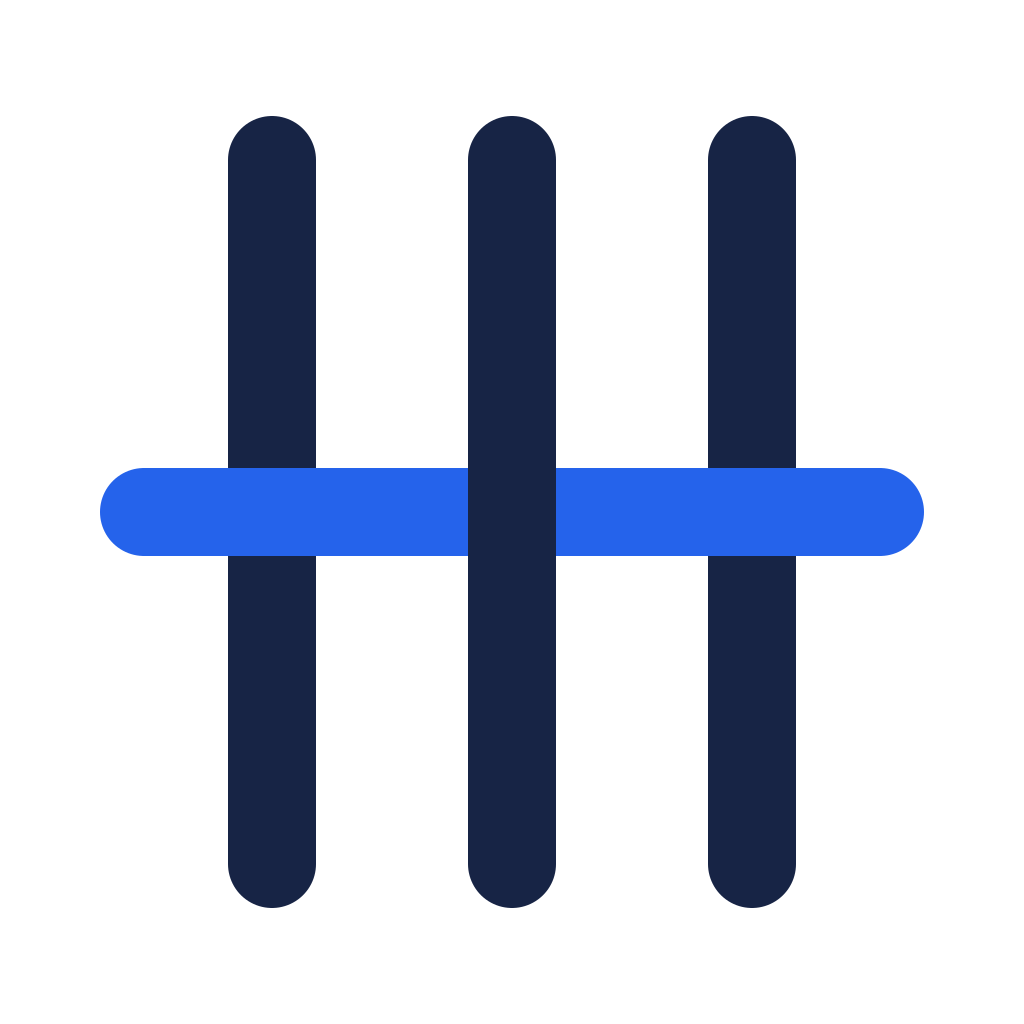
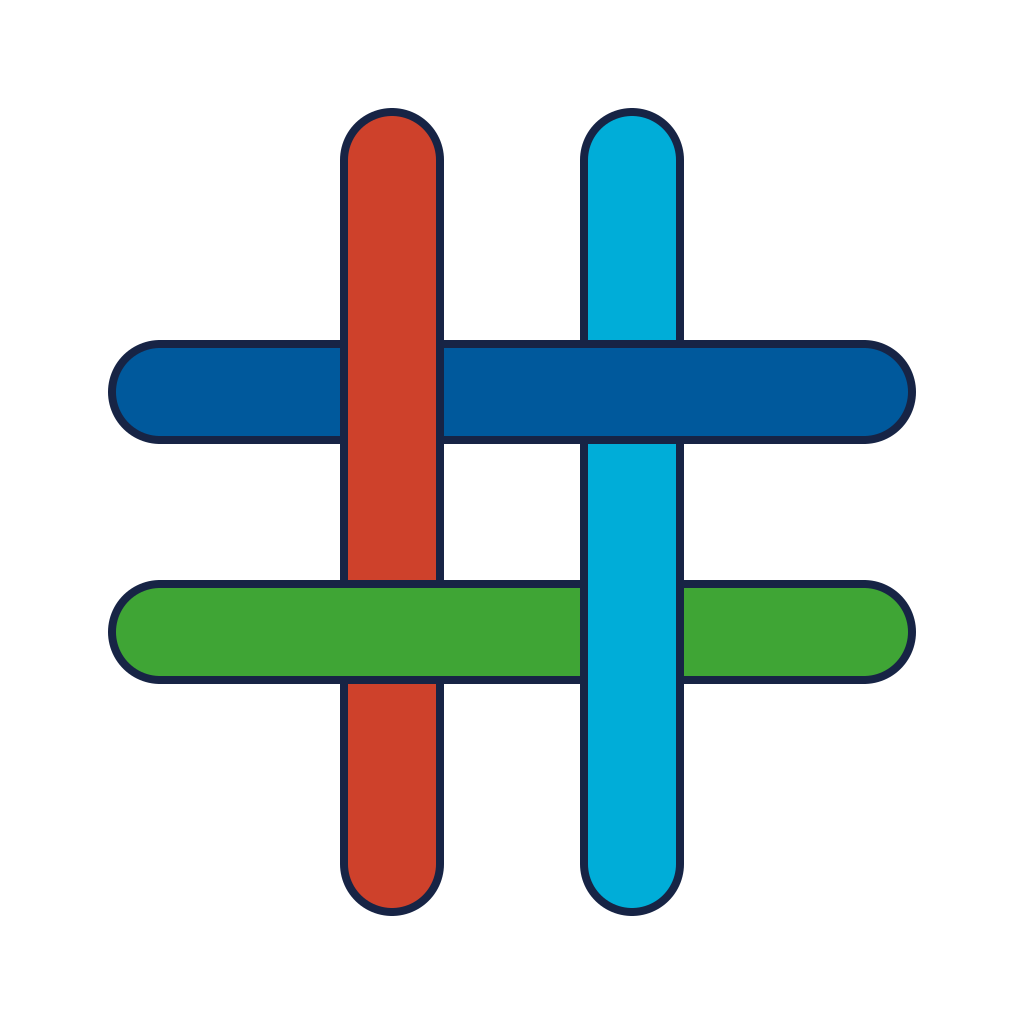
docs: apply org branding / pending clean changes (#2)

diff --git a/README.md b/README.md
@@ -1,3 +1,5 @@
+<p align="center"><img src="https://raw.githubusercontent.com/openweft/brand/main/social/weft-loom-app-linux.png" alt="weft-loom-app-linux" width="720"></p>
+
 # weft-loom-app-linux
 
 Linux tray client for the [Weft](https://github.com/openweft) dashboard.